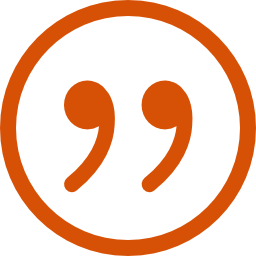
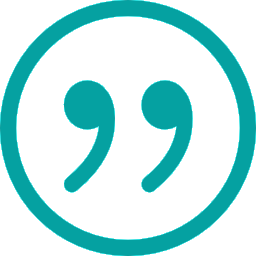
More changes

Changed region(s): [[0.0, 0.0, 1.0, 1.0], [0.5312, 0.3125, 0.7812, 0.75], [0.25, 0.3125, 0.4688, 0.75]]

diff --git a/css/style.css b/css/style.css
@@ -183,11 +183,11 @@ button:focus{
 }
 
 .top-navbar .navbar-light .navbar-nav .nav-item .nav-link:hover{
-	background: #d65106;
+	background:	#008080;
 	color: #ffffff;
 }
 .top-navbar .navbar-light .navbar-nav .nav-item .active .nav-link{
-	background: #d65106;
+	background: #008080;
 	color: #ffffff;
 	border-radius: 4px;
 }
@@ -204,11 +204,11 @@ button:focus{
 }
 
 .navbar-expand-lg .navbar-nav .dropdown-menu a.dropdown-item:hover{
-	background: #d65106;
+	background: #008080;
 	color: #ffffff;
 }
 .navbar-light .navbar-toggler:hover{
-    background: #d65106;
+    background: #008080;
 }
 
 /*------------------------------------------------------------------
@@ -219,7 +219,7 @@ button:focus{
 	height: 100vh;
 }
 .slides-navigation a {
-	background: #d65106;
+	background: #008080;
     position: absolute;
     height: 50px;
     width: 50px;
@@ -275,9 +275,9 @@ button:focus{
 }
 .btn-outline-new-white {
     color: #fff;
-    background-color: #d65106;
+    background-color: #008080;
     background-image: none;
-    border-color: #d65106;
+    border-color: #008080;
 }
 .btn-outline-new-white:hover {
     color: #ffffff;
@@ -309,8 +309,8 @@ button:focus{
 	border: 2px solid #ffffff;
 }
 .slides-pagination a.current{
-	background: #d65106;
-	border: 2px solid #d65106;
+	background: #008080;
+	border: 2px solid #008080;
 }
 
 /*------------------------------------------------------------------
@@ -323,7 +323,7 @@ button:focus{
 	background-size: cover;
 }
 .about-section-box .img-fluid{
-	box-shadow: 20px 20px 0px #d65106;
+	box-shadow: 20px 20px 0px #008080;
 }
 .inner-column{
 	text-align: left;
@@ -335,7 +335,7 @@ button:focus{
 	font-weight: 500;
 }
 .inner-column h1 span{
-	color: #d65106;
+	color: #008080;
 }
 .inner-column h4{
 	font-size: 16px;
@@ -405,13 +405,13 @@ button:focus{
 
 .inner-menu-box{}
 .inner-menu-box .nav-pills .nav-link .active{
-	background: #d65106;
+	background: #008080;
 }
 .inner-menu-box .nav-pills .nav-link{
 	font-size: 18px;
 }
 .inner-menu-box .nav-pills .nav-link:hover{
-	background: #d65106;
+	background: #008080;
 	color: #ffffff;
 }
 
@@ -483,7 +483,7 @@ button:focus{
     box-shadow: 0 8px 15px rgba(0,0,0,0.3);
 }
 .tz-gallery .lightbox{
-	border: 3px solid #d65106;
+	border: 3px solid #008080;
 	display: inline-block;
 	margin-bottom: 30px;
 }
@@ -512,7 +512,7 @@ button:focus{
 }
 
 .text-warning{
-	color: #d65106 !important;
+	color: #008080 !important;
 	font-size: 24px;
 }
 
@@ -532,7 +532,7 @@ button:focus{
 }
 
 #reviews .carousel-control-prev{
-	background: #d65106;
+	background: #008080;
 	color: #ffffff;
 	display: block;
 	position: absolute;
@@ -549,7 +549,7 @@ button:focus{
 }
 
 #reviews .carousel-control-next{
-	background: #d65106;
+	background: #008080;
 	color: #ffffff;
 	display: block;
 	position: absolute;
@@ -571,7 +571,7 @@ button:focus{
 -------------------------------------------------------------------*/
 
 .contact-imfo-box{
-	background: #d65106;
+	background: 	#008080;
 	padding: 30px 0;
 	border-radius: 100px;
 }
@@ -588,7 +588,7 @@ button:focus{
 	line-height: 60px;
 	text-align: center;
 	background: #fff;
-	color: #d65106;
+	color:	#008080;
 	font-size: 30px;
 	-webkit-border-radius: 4px;
 	-moz-border-radius: 4px;
@@ -686,14 +686,14 @@ button:focus{
 	margin-bottom: 15px;
 }
 .footer-area p.lead a:hover{
-	color: #d65106;
+	color: #008080;
 }
 .footer-area p a{
 	font-size: 18px;
 	color: #ffffff;
 }
 .footer-area p a:hover{
-	color: #d65106;
+	color: #008080;
 }
 
 .subscribe_form {
@@ -717,7 +717,7 @@ button:focus{
 }
 
 .subscribe_form .submit {
-    background-color: #d65106;
+    background-color: #008080;
     color: #fff;
     font-size: 16px;
     font-weight: 500;
@@ -741,7 +741,7 @@ button:focus{
 }
 .f-social li a {
     font-size: 18px;
-    color: rgba(214, 81, 6);
+    color:#008080;
 	width: 38px;
 	height: 38px;
 	display: block;
@@ -882,7 +882,7 @@ button:focus{
     content: "";
     width: 100%;
     height: 100%;
-    background: #d65106;
+    background: #008080;
     border-radius: 0 20px 20px 20px;
     position: absolute;
     top: 0;
@@ -896,7 +896,7 @@ button:focus{
     font-size: 22px;
     font-weight: 700;
     letter-spacing: 2px;
-    color: #d65106;
+    color: #008080;
     text-transform: uppercase;
     margin-bottom: 7px;
 }
@@ -935,22 +935,22 @@ button:focus{
 	min-height: 50px;
 }
 .form-control:focus{
-	border: 1px solid #d65106;
+	border: 1px solid #008080;
 	box-shadow: none;
 }
 
 .form-group .picker__input.picker__input--active{
-	border-color: #d65106;
+	border-color: #008080;
 }
 
 .submit-button{
 	margin-top: 20px;
 }
 .btn.btn-common{
-	color: #d65106;
+	color: #008080;
 	background-color: transparent;
 	background-image: none;
-	border-color: #d65106;
+	border-color: #008080;
 }
 .btn.btn-common:hover{
 	color: #ffffff;
@@ -991,7 +991,7 @@ button:focus{
     padding: 0px 5px;
 }
 .blog-detail ul li span{
-	color: #d65106;
+	color: #008080;
 	cursor: pointer;
 }
 .blog-detail ul li span:hover{
@@ -1033,7 +1033,7 @@ button:focus{
     position: absolute;
     right: 0px;
     top: 0px;
-    background: #d65106;
+    background: #008080;
     font-size: 18px;
     color: #ffffff;
     padding: 5px 15px 5px 5px;
@@ -1055,13 +1055,13 @@ button:focus{
     color: #222222;
 }
 .inner-blog-detail ul li span {
-    color: #d65106;
+    color: #008080;
 }
 .inner-blog-detail p {
     padding: 10px 0px;
 }
 .details-page blockquote {
-    border-left: 5px solid #d65106;
+    border-left: 5px solid #008080;
 }
 .details-page blockquote {
     padding: 20px;
@@ -1109,11 +1109,11 @@ blockquote {
     font-size: 12px;
 }
 .line-left-social ul li a:hover {
-    background: #d65106;
+    background: #008080;
     color: #ffffff;
 }
 .line-right-social ul li a:hover {
-    background: #d65106;
+    background: #008080;
     color: #ffffff;
 }
 .line-right-social h5 {
@@ -1172,7 +1172,7 @@ blockquote {
     border-radius: 6px;
 }
 .right-btn-re:hover {
-    background: #d65106;
+    background: #008080;
     color: #ffffff !important;
 }
 .comment-respond-box {
@@ -1202,10 +1202,10 @@ blockquote {
 }
 
 .btn-submit{
-	color: #d65106;
+	color: #008080;
 	background-color: transparent;
 	background-image: none;
-	border-color: #d65106;
+	border-color: #008080;
 }
 .btn-submit:hover{
 	color: #ffffff;
@@ -1262,7 +1262,7 @@ blockquote {
     width: 100%;
 }
 .blog-categories ul li a:hover{
-	color: #d65106;
+	color: #008080;
 }
 .recent-box-blog {
     margin-bottom: 20px;
@@ -1280,7 +1280,7 @@ blockquote {
     left: 0;
     width: 100%;
     height: 100%;
-    background-color: #d65106;
+    background-color: #008080;
     opacity: 0.4;
     transform: scale(0);
     -webkit-transform: scale(0);
@@ -1329,7 +1329,7 @@ blockquote {
 }
 .blog-tag-box ul li a:hover {
     color: #ffffff;
-    background: #d65106;
+    background: #008080;
 }
 
 .contact-box{
@@ -1352,7 +1352,7 @@ blockquote {
     height: 40px;
     text-align: center;
     line-height: 40px;
-    background: #d65106;
+    background: #008080;
     color: #ffffff;
     cursor: pointer;
     border: 0;
